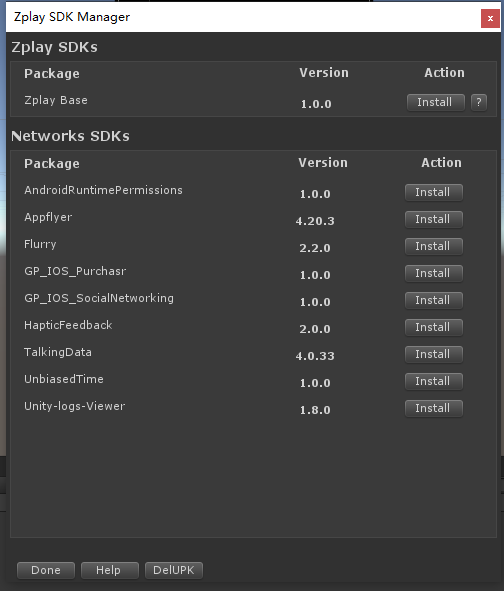
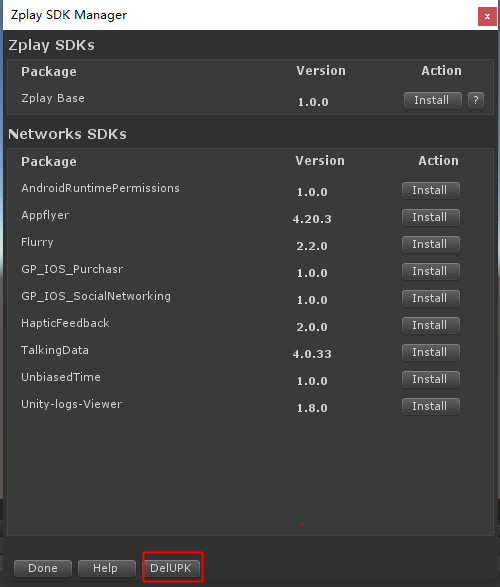
删除冗余文件和修改说明文件

diff --git a/GP_IOS_Purchasr_SocialNetWorking.md b/GP_IOS_Purchasr_SocialNetWorking.md
@@ -1,0 +1,70 @@
+# GP IOS Purchasr SocialNetWorking plugin for Unity   
+
+* Includes IOS and Android payment and subscription features  
+* Includes IOS and Android logins, display leaderboards, impression achievements, upload leaderboard scores, upload achievement completions  
+* Access to login and leaderboards requires google to import the google play game API  
+* Link：https://github.com/playgameservices/play-games-plugin-for-unity#configure-your-game
+* Access payment needs to import Unity IAP into the Asset store, Window/Package Manager panel to import In APP Purchasing  
+* Fill in the payment id, please click Zplay/Data/Game settings,create the GameSettings.asset file.  
+* Consumabie：
+__Consumption type billing point__
+* NonConSumable：
+__Non-consumable type billing point__  
+* Subscription：
+__Subscription type billing point__  
+
+![click Get Resources](source/docgen/UnityIAP.png "Show the resources data")
+
+## To related function, call:  
+### Pay
+* Initialize：       
+__PurchaserManager.Instance.Initialize();__    
+* Price：   
+__Product=PurchaserManager.Instance.OnProductPrice(string productId);__
+* Pay：  
+__PurchaserManager.Instance. BuyProductId(String productId, String source = "Shop") //source should be provided in a better way__
+* RestorePurchases：  
+__PurchaserManager.Instance. RestorePurchases(String productId, String source = "Shop")__
+* Pay callcack：  
+__Whether the initialization was successful__  
+PurchaserManager.Initialized += Initialized;   
+__Payment start__
+PurchaserManager.PurchaseStarted += PurchaseStarted;  
+__Successful payment, paying rewards in the callback__
+PurchaserManager.PurchaseSucceeded += PurchaseSucceeded;  
+__Payment failed__  
+PurchaserManager.PurchaseFailed += PurchaseFailed;   
+
+### Note: If you don't know, please check out PurchaserManager.cs.
+
+### Subscription  
+* Detect if the incoming subscription id is in the subscription state and return whether it is in the subscription state
+SubscriptionController.Instance. CheckSubscription(String subscriptionId,Action<Boolean> subscriptionCallback);
+
+### Note: Please refer to the SubscriptionController.cs for your specific
+
+### Login, leaderboard
+* Initialize  
+__Initialize Social Networks__   
+SocialNetworksManager.Instance.Initialize();   
+* ShowAchievementsUI   
+__Show achievements__    
+SocialNetworksManager.Instance. ShowAchievementsUI(Action<Boolean> callback = null);   
+* UnlockAchievements   
+__Unlock now successfully__   
+UnlockAchievements: SocialNetworksManager.Instance. UnlockAchievements(String achievementId,Action<Boolean> callback = null);   
+__Cumulative unlock achievement__   
+UnlockAchievements: SocialNetworksManager.Instance. UnlockAchievements(String achievementId,int steps ,Action<Boolean> callback = null);
+* ShowLeaderboardUI
+__Show leaderboards, such as transferring leaderboardId to display a single leaderboard, and not transmitting to show all leaderboards__    
+* ReportLeaderboard
+__Metadata ==null is more ID submitted leaderboard score, !=null is more id and metadata label submission ranking__   
+SocialNetworksManager.Instance.ReportLeaderboard(string leaderboard,long score,Action<Boolean> callback = null,String metadata = null); 
+
+### Note: See SocialNetworksManager.cs for details.
+
+
+
+
+
+

diff --git a/README.md b/README.md
@@ -43,6 +43,8 @@ __Jump to sdk access document directory__
 
 ![click Get Resources](source/docgen/ZplaySDKManagr.png "Show the resources data")
 
+__Note: Each time you import the corresponding .unitypackage, please click on DelUPK. This button works for me to delete the .unitypakcage file you downloaded, which has reduced your package size.__
+
 ## UnbiaseedTime  
 * Unity Anti-Cheat Time Plugin
 * To add time,call：
